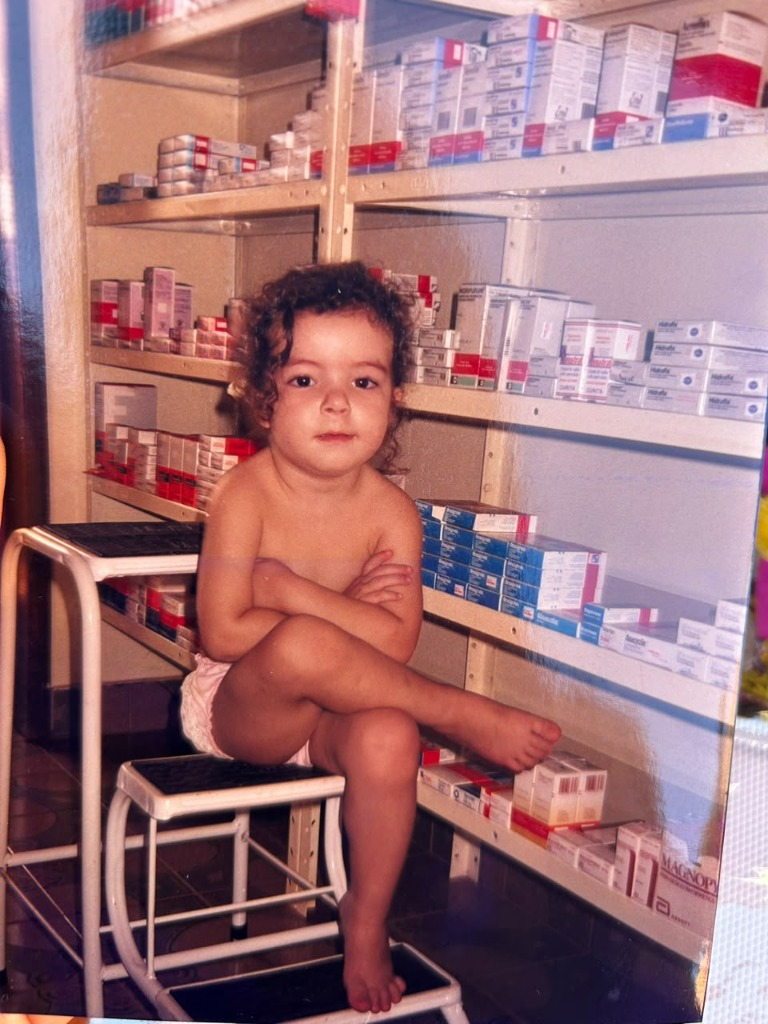
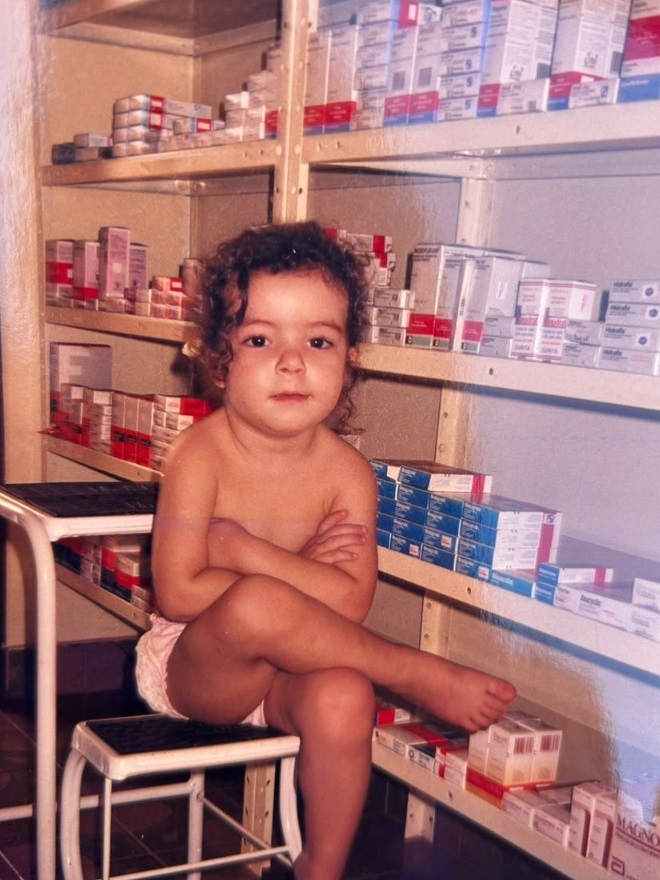
style: recortar e dar zoom nas fotos de infancia para remover bordas, mao e fundo

diff --git a/src/components/StorySection.tsx b/src/components/StorySection.tsx
@@ -57,13 +57,13 @@ export default function StorySection() {
               
               {/* Foto Infância 1 */}
               <div className="group relative rounded-2xl overflow-hidden shadow-xl border-2 border-antique-100 bg-pearl-100 transform -rotate-1 hover:rotate-0 transition-transform duration-300">
-                <div className="relative aspect-[3/4] w-full">
+                <div className="relative aspect-[3/4] w-full overflow-hidden">
                   <Image
                     src="/images/maju-infancia-farmacia-1.jpg"
                     alt="Maria Júlia na infância entre prateleiras de farmácia"
                     fill
                     sizes="(max-width: 768px) 50vw, 280px"
-                    className="object-cover object-center group-hover:scale-105 transition-transform duration-500"
+                    className="object-cover object-center scale-105 group-hover:scale-112 transition-transform duration-500"
                   />
                 </div>
                 <div className="p-3 bg-white/95 text-center border-t border-pearl-200">
@@ -78,13 +78,13 @@ export default function StorySection() {
 
               {/* Foto Infância 2 */}
               <div className="group relative rounded-2xl overflow-hidden shadow-xl border-2 border-antique-100 bg-pearl-100 transform rotate-2 hover:rotate-0 transition-transform duration-300 sm:mt-6">
-                <div className="relative aspect-[3/4] w-full">
+                <div className="relative aspect-[3/4] w-full overflow-hidden">
                   <Image
                     src="/images/maju-infancia-farmacia-2.jpg"
                     alt="Maria Júlia pequenina atendendo no telefone da farmácia"
                     fill
                     sizes="(max-width: 768px) 50vw, 280px"
-                    className="object-cover object-center group-hover:scale-105 transition-transform duration-500"
+                    className="object-cover object-center scale-105 group-hover:scale-112 transition-transform duration-500"
                   />
                 </div>
                 <div className="p-3 bg-white/95 text-center border-t border-pearl-200">
